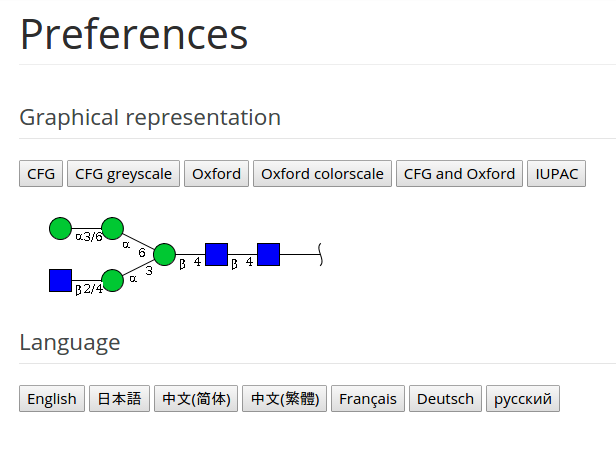
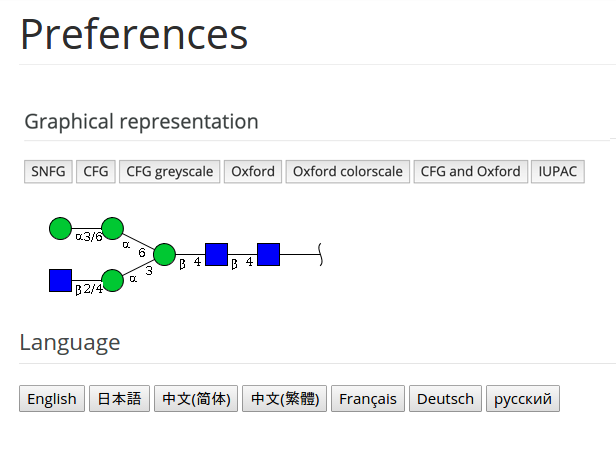
update preferences

Changed region(s): [[0.0308, 0.3377, 0.9562, 0.4298], [0.0308, 0.2149, 0.4627, 0.307]]

diff --git a/manual/preferences.md b/manual/preferences.md
@@ -8,26 +8,28 @@ reviewers:
 layout: paging
 categories: [preferences, image format, language]
 next: profile
+last_modified_at: 2019-08-06
 ---
 
 User Preferences
 ------------
   The User Preferences screen is where it is possible to configure the Graphical Representation of structures and Language Used for all pages of GlyTouCan.  These configurations will only last for the session that the user is logged in.
 
-![User Preferences](/images/manual/preferences-detail.png)
-  
+![User Preferences](/images/manual/preferences-detail.png)  
+
 The following Graphical Representation formats are possible:
 
+  * Symbol Nomenclature for Glycans (SNFG)
   * Consortium for Functional Glycomics (CFG)
   * CFG greyscale
   * Oxford
   * Oxford colorscale
   * CFG and Oxford
   * IUPAC
-  
+
 When a representation is selected, the image structure will change to the selected format.
 
-*Once the browser is closed or if the user session times out, this selection will no longer be in effect.  It will have to be selected again.* 
+*Once the browser is closed or if the user session times out, this selection will no longer be in effect.  It will have to be selected again.*
 
 <br>
 
@@ -43,7 +45,7 @@ The language buttons allow for configuration of a specific language to be used f
   * German
   * Russian
 
-*If you would like to contribute your language translation expertise, please [contact us!](mailto:support@glytoucan.org)* 
+*If you would like to contribute your language translation expertise, please [contact us!](mailto:support@glytoucan.org)*
 
 <br>
 
